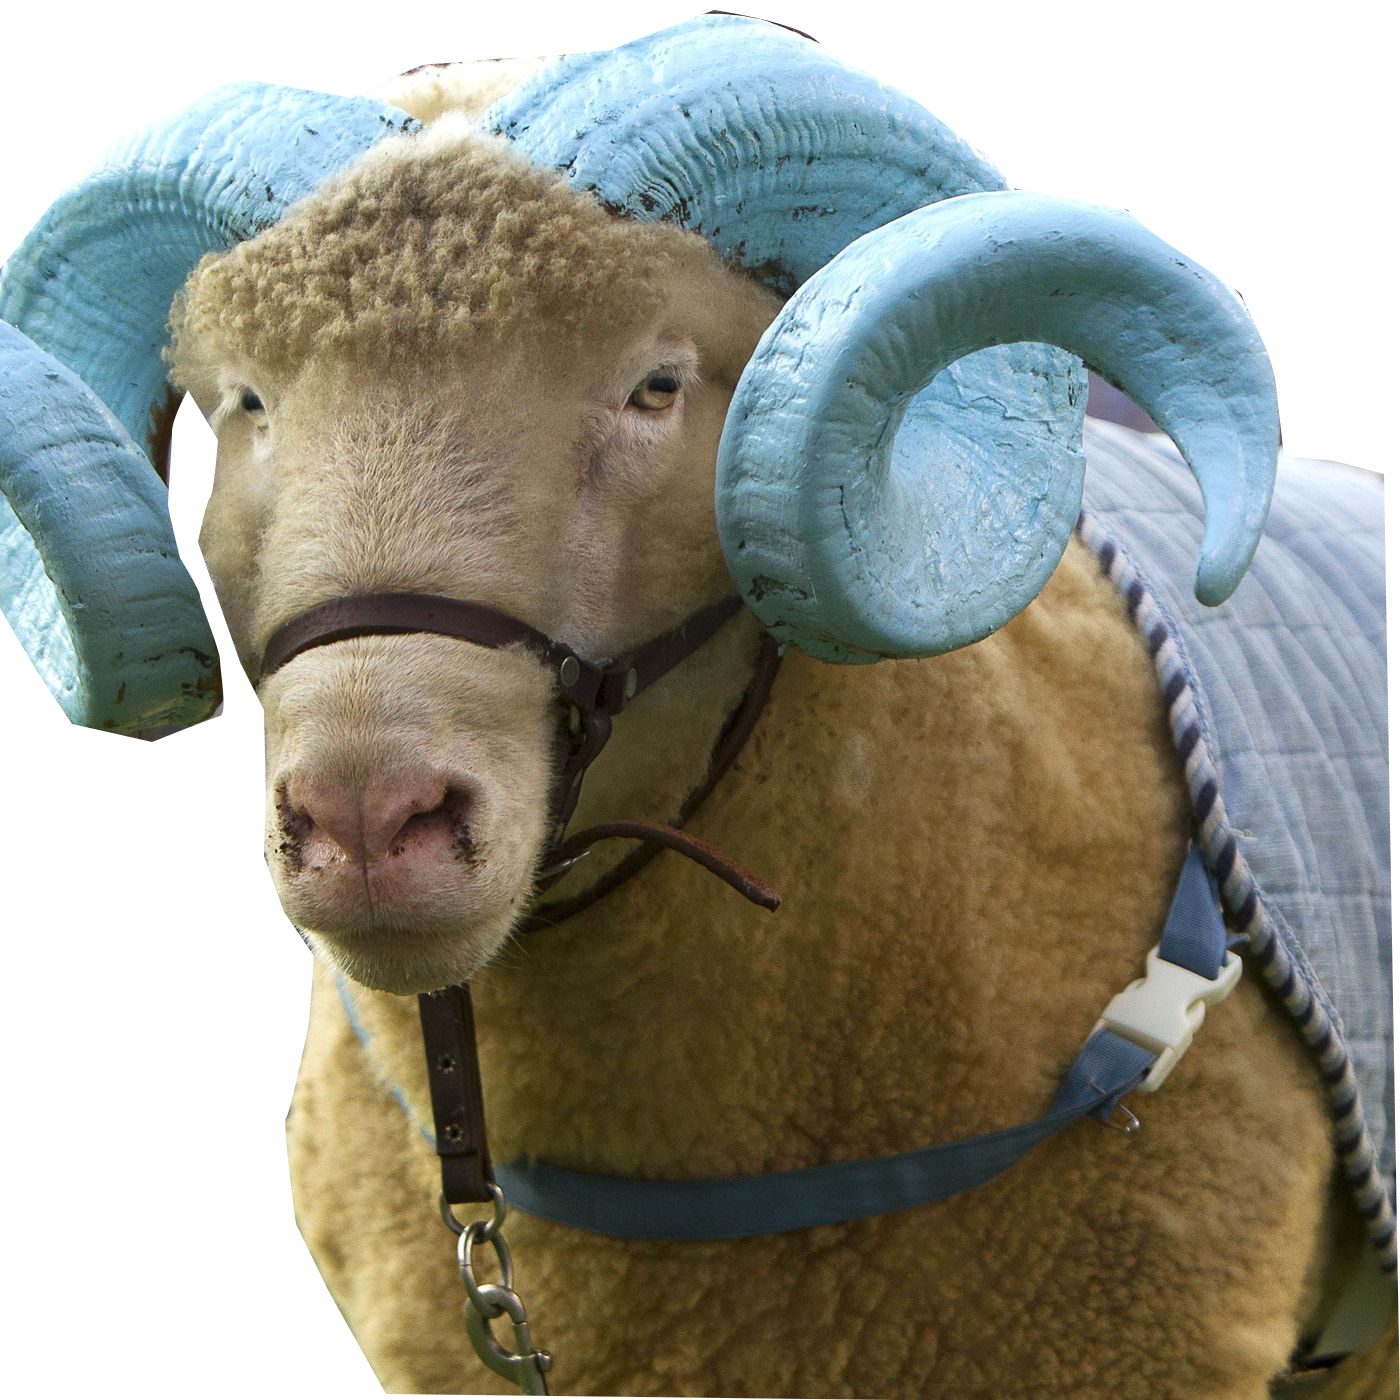
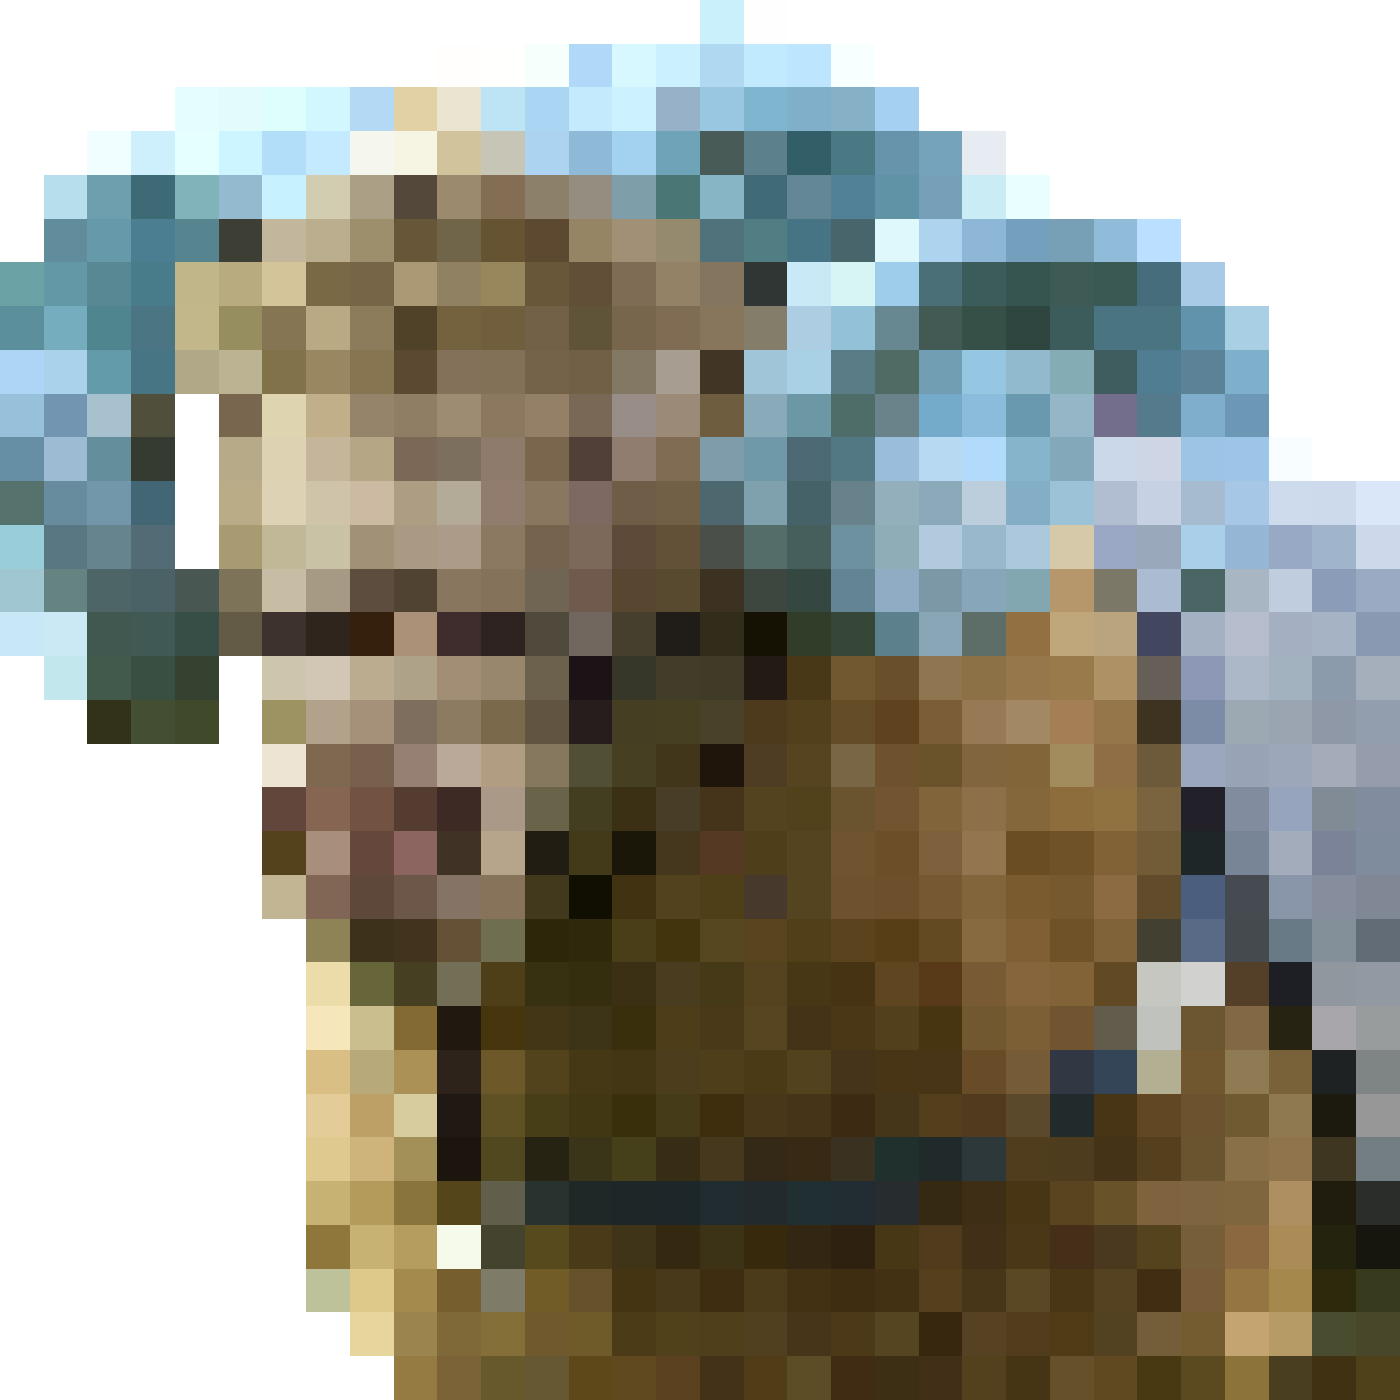
added status bar, improved player movement input

diff --git a/src/main/java/edu/unc/comp301/ui/GameView.java b/src/main/java/edu/unc/comp301/ui/GameView.java
@@ -2,20 +2,23 @@ package edu.unc.comp301.ui;
 
 import edu.unc.comp301.board.BoardImpl;
 import edu.unc.comp301.board.Posn;
+import edu.unc.comp301.pieces.CollisionEvent;
 import edu.unc.comp301.pieces.Piece;
 import javafx.scene.Parent;
 import javafx.scene.layout.GridPane;
 import javafx.scene.layout.StackPane;
 import javafx.scene.image.Image;
 import javafx.scene.image.ImageView;
+import javafx.scene.layout.VBox;
 
 import java.util.*;
 
 public class GameView implements FXComponent{
     private final BoardImpl board;
-    private final int tileSize = 50;
+    private final int tileSize = 64;
     Map<String, Image> images = new HashMap<>();
     private GridPane gridPane;
+    private GameBar gameBar;
 
     public GameView(BoardImpl board) {
         this.board = board;
@@ -24,7 +27,7 @@ public class GameView implements FXComponent{
     }
 
     private void loadImages() {
-        String[] toLoad = {"UNCApple_Buff.png", "UNCGrass.jpg", "UNCHomework_Debuff.jpg", "UNCLogo_Exit.png", "UNCMoney_Treasure.png",
+        String[] toLoad = {"UNCApple_Buff.png", "UNCGrass.png", "UNCHomework_Debuff.jpg", "UNCLogo_Exit.png", "UNCMoney_Treasure.png",
         "UNCPencil_Buff.png", "UNCPlayer.png", "UNCPortal.png", "UNCProfessor_Enemy.png", "UNCRam_Obstacle.png", "UNCRamses_Enemy.png",
         "UNCStudent_Enemy.png", "UNCTile_1.jpg", "UNCTile_2.jpg", "UNCTile_3.jpg"};
         for (String path : toLoad) {
@@ -41,30 +44,48 @@ public class GameView implements FXComponent{
 
     @Override
     public Parent render() {
+        VBox vBox = new VBox();
+        gameBar = new GameBar();
         gridPane = new GridPane();
         for (int i = 0; i < board.getHeight(); i++) {
             for (int j = 0; j < board.getWidth(); j++) {
                 StackPane stackPane = new StackPane();
-                stackPane.getChildren().add(getView("UNCGrass.jpg"));
+                stackPane.getChildren().add(getView("UNCGrass.png"));
                 Piece piece = board.getPiece(new Posn(i, j));
                 if (piece != null) {
+                    if (piece.toString().equals("treasure")) {
+                        System.out.println("Spawned treasure!");
+                    }
                     stackPane.getChildren().add(getView(piece.getResourcePath()));
                 }
                 gridPane.add(stackPane, j, i);
             }
         }
-        return gridPane;
+        vBox.getChildren().addAll(gameBar.render(), gridPane);
+        gameBar.updateStats(board.getHealth(), board.getPoints(), board.getLevel());
+        return vBox;
     }
 
-    public void update(List<Posn> toUpdate) {
-        for (Posn posn : toUpdate) {
+    public void update(CollisionEvent collisionEvent) {
+        for (Posn posn : collisionEvent.getToUpdate()) {
             StackPane stackPane = new StackPane();
-            stackPane.getChildren().add(getView("UNCGrass.jpg"));
+            stackPane.getChildren().add(getView("UNCGrass.png"));
             Piece piece = board.getPiece(posn);
             if (piece != null) {
                 stackPane.getChildren().add(getView(piece.getResourcePath()));
             }
             gridPane.add(stackPane, posn.getCol(), posn.getRow());
+        }
+        if (gameBar != null) {
+            if (collisionEvent.getHealth() != 0) {
+                gameBar.setHealth(board.getHealth());
+            }
+            if (collisionEvent.getPoints() != 0) {
+                gameBar.setScore(board.getPoints());
+            }
+            if (collisionEvent.getResults().equals(CollisionEvent.Result.NEXT_LEVEL)) {
+                gameBar.setLevel(board.getLevel());
+            }
         }
     }
 }

diff --git a/src/main/java/edu/unc/comp301/ui/GameBar.java b/src/main/java/edu/unc/comp301/ui/GameBar.java
@@ -1,0 +1,82 @@
+package edu.unc.comp301.ui;
+
+import javafx.scene.Parent;
+import javafx.scene.control.Label;
+import javafx.scene.image.ImageView;
+import javafx.scene.layout.HBox;
+import javafx.scene.layout.Priority;
+import javafx.scene.layout.VBox;
+import javafx.scene.image.Image;
+import java.util.*;
+
+public class GameBar implements FXComponent{
+    private final Label scoreNumber = new Label("0");
+    private final Label levelNumber = new Label("1");
+    private final HBox healthBar = new HBox();
+    private final Map<String, Image> images = new HashMap<>();
+    private final int tileSize = 32;
+
+    @Override
+    public Parent render() {
+        loadImages();
+        HBox bar = new HBox();
+        bar.setPrefWidth(640);
+        bar.setPrefHeight(64);
+
+        // health
+        setHealth(32);
+
+        // spacer
+        HBox spacer = new HBox();
+        HBox.setHgrow(spacer, Priority.ALWAYS);
+
+        // score
+        VBox scoreBox = new VBox();
+        Label scoreLabel = new Label("SCORE");
+        scoreBox.getChildren().addAll(scoreLabel, scoreNumber);
+
+        // level
+        VBox levelBox = new VBox();
+        Label levelLabel = new Label("LEVEL");
+        levelBox.getChildren().addAll(levelLabel, levelNumber);
+
+        bar.getChildren().addAll(healthBar, spacer, scoreBox, levelBox);
+        return bar;
+    }
+
+    public void setScore(int score) {
+        scoreNumber.setText(Integer.toString(score));
+    }
+
+    private void loadImages() {
+        String[] toLoad = {"UNCHeart.png"};
+        for (String path : toLoad) {
+            images.put(path, new Image(path));
+        }
+    }
+
+    private ImageView getView(String path) {
+        ImageView rtn = new ImageView(images.get(path));
+        rtn.setFitWidth(tileSize);
+        rtn.setFitHeight(tileSize);
+        return rtn;
+    }
+
+    public void setHealth(int health) {
+        healthBar.getChildren().clear();
+        for (int i = 0; i < health / 10; i++) {
+            healthBar.getChildren().add(getView("UNCHeart.png"));
+        }
+        System.out.println("loaded health");
+    }
+
+    public void setLevel(int level) {
+        levelNumber.setText(Integer.toString(level));
+    }
+
+    public void updateStats(int health, int score, int level) {
+        setHealth(health);
+        setScore(score);
+        setLevel(level);
+    }
+}

diff --git a/src/main/java/edu/unc/comp301/ui/GameController.java b/src/main/java/edu/unc/comp301/ui/GameController.java
@@ -30,34 +30,34 @@ public class GameController {
         });
 
         scene.setOnKeyReleased(keyEvent -> {
-            pressed.remove(keyEvent.getCode());
+//            pressed.remove(keyEvent.getCode());
         });
 
         Thread gameTick = new Thread(() -> {
             while (true) {
                 // check movement
-//                System.out.println(pressed);
-                List<Posn> toUpdate = null;
                 CollisionEvent res = null;
                 KeyCode[] directions = {KeyCode.W, KeyCode.A, KeyCode.S, KeyCode.D};
                 for (KeyCode direction : directions) {
                     if (pressed.contains(direction)) {
+                        pressed.remove(direction);
                         res = board.move(direction);
-                        toUpdate = res.getToUpdate();
                         break;
                     }
                 }
-                if (res != null && res.getResults().equals(CollisionEvent.Result.NEXT_LEVEL)) {
-                    scene.setRoot(view.render());
-                }
-                if (toUpdate != null) {
-                    final List<Posn> temp = toUpdate;
+
+                if (res != null) { // redraw screen
+                    // next level, redraw completely
+                    if (res.getResults().equals(CollisionEvent.Result.NEXT_LEVEL)) {
+                        scene.setRoot(view.render());
+                    }
+                    final CollisionEvent temp = res;
                     Platform.runLater(() -> {
                         view.update(temp);
                     });
                 }
                 try {
-                    Thread.sleep(100);
+                    Thread.sleep(200);
                 } catch (InterruptedException e) {
                     throw new RuntimeException(e);
                 }

diff --git a/src/main/java/edu/unc/comp301/ui/AppLauncher.java b/src/main/java/edu/unc/comp301/ui/AppLauncher.java
@@ -4,12 +4,11 @@ import edu.unc.comp301.board.BoardImpl;
 import edu.unc.comp301.exceptions.LevelNotLoadedException;
 import javafx.application.Application;
 import javafx.scene.Scene;
-import javafx.scene.control.Button;
 import javafx.stage.Stage;
 
 import java.io.FileNotFoundException;
 
-public class UNCTale extends Application {
+public class AppLauncher extends Application {
 
   public static void main(String[] args) {
     launch(args);
@@ -24,7 +23,7 @@ public class UNCTale extends Application {
           throw new LevelNotLoadedException("level couldn't be loaded");
       }
       View view = new View(board);
-      Scene scene = new Scene(view.render(), 500, 500);
+      Scene scene = new Scene(view.render(), 640, 704);
       view.setScene(scene);
       GameController gameController = new GameController(board, view);
       gameController.init(scene);

diff --git a/src/main/java/edu/unc/comp301/ui/View.java b/src/main/java/edu/unc/comp301/ui/View.java
@@ -2,8 +2,10 @@ package edu.unc.comp301.ui;
 
 import edu.unc.comp301.board.BoardImpl;
 import edu.unc.comp301.board.Posn;
+import edu.unc.comp301.pieces.CollisionEvent;
 import javafx.scene.Parent;
 import javafx.scene.Scene;
+import javafx.scene.layout.VBox;
 
 import java.util.List;
 
@@ -25,7 +27,7 @@ public class View implements FXComponent{
         this.scene = scene;
     }
 
-    public void update(List<Posn> toUpdate) {
+    public void update(CollisionEvent toUpdate) {
         gameView.update(toUpdate);
     }
 

diff --git a/src/main/java/edu/unc/comp301/pieces/TreasureImpl.java b/src/main/java/edu/unc/comp301/pieces/TreasureImpl.java
@@ -5,6 +5,6 @@ import edu.unc.comp301.pieces.requirements.Treasure;
 
 public class TreasureImpl extends APiece implements Treasure {
   public TreasureImpl(Posn posn) {
-    super("treasure", "resources/UNCMoney_Treasure.png", posn);
+    super("treasure", "UNCMoney_Treasure.png", posn);
   }
 }

diff --git a/src/main/java/edu/unc/comp301/board/BoardImpl.java b/src/main/java/edu/unc/comp301/board/BoardImpl.java
@@ -300,5 +300,9 @@ public class BoardImpl implements Board {
     return level;
   }
 
+  public int getHealth() {
+    if (player == null) return 0;
+    return player.getHealth();
+  }
 
 }
